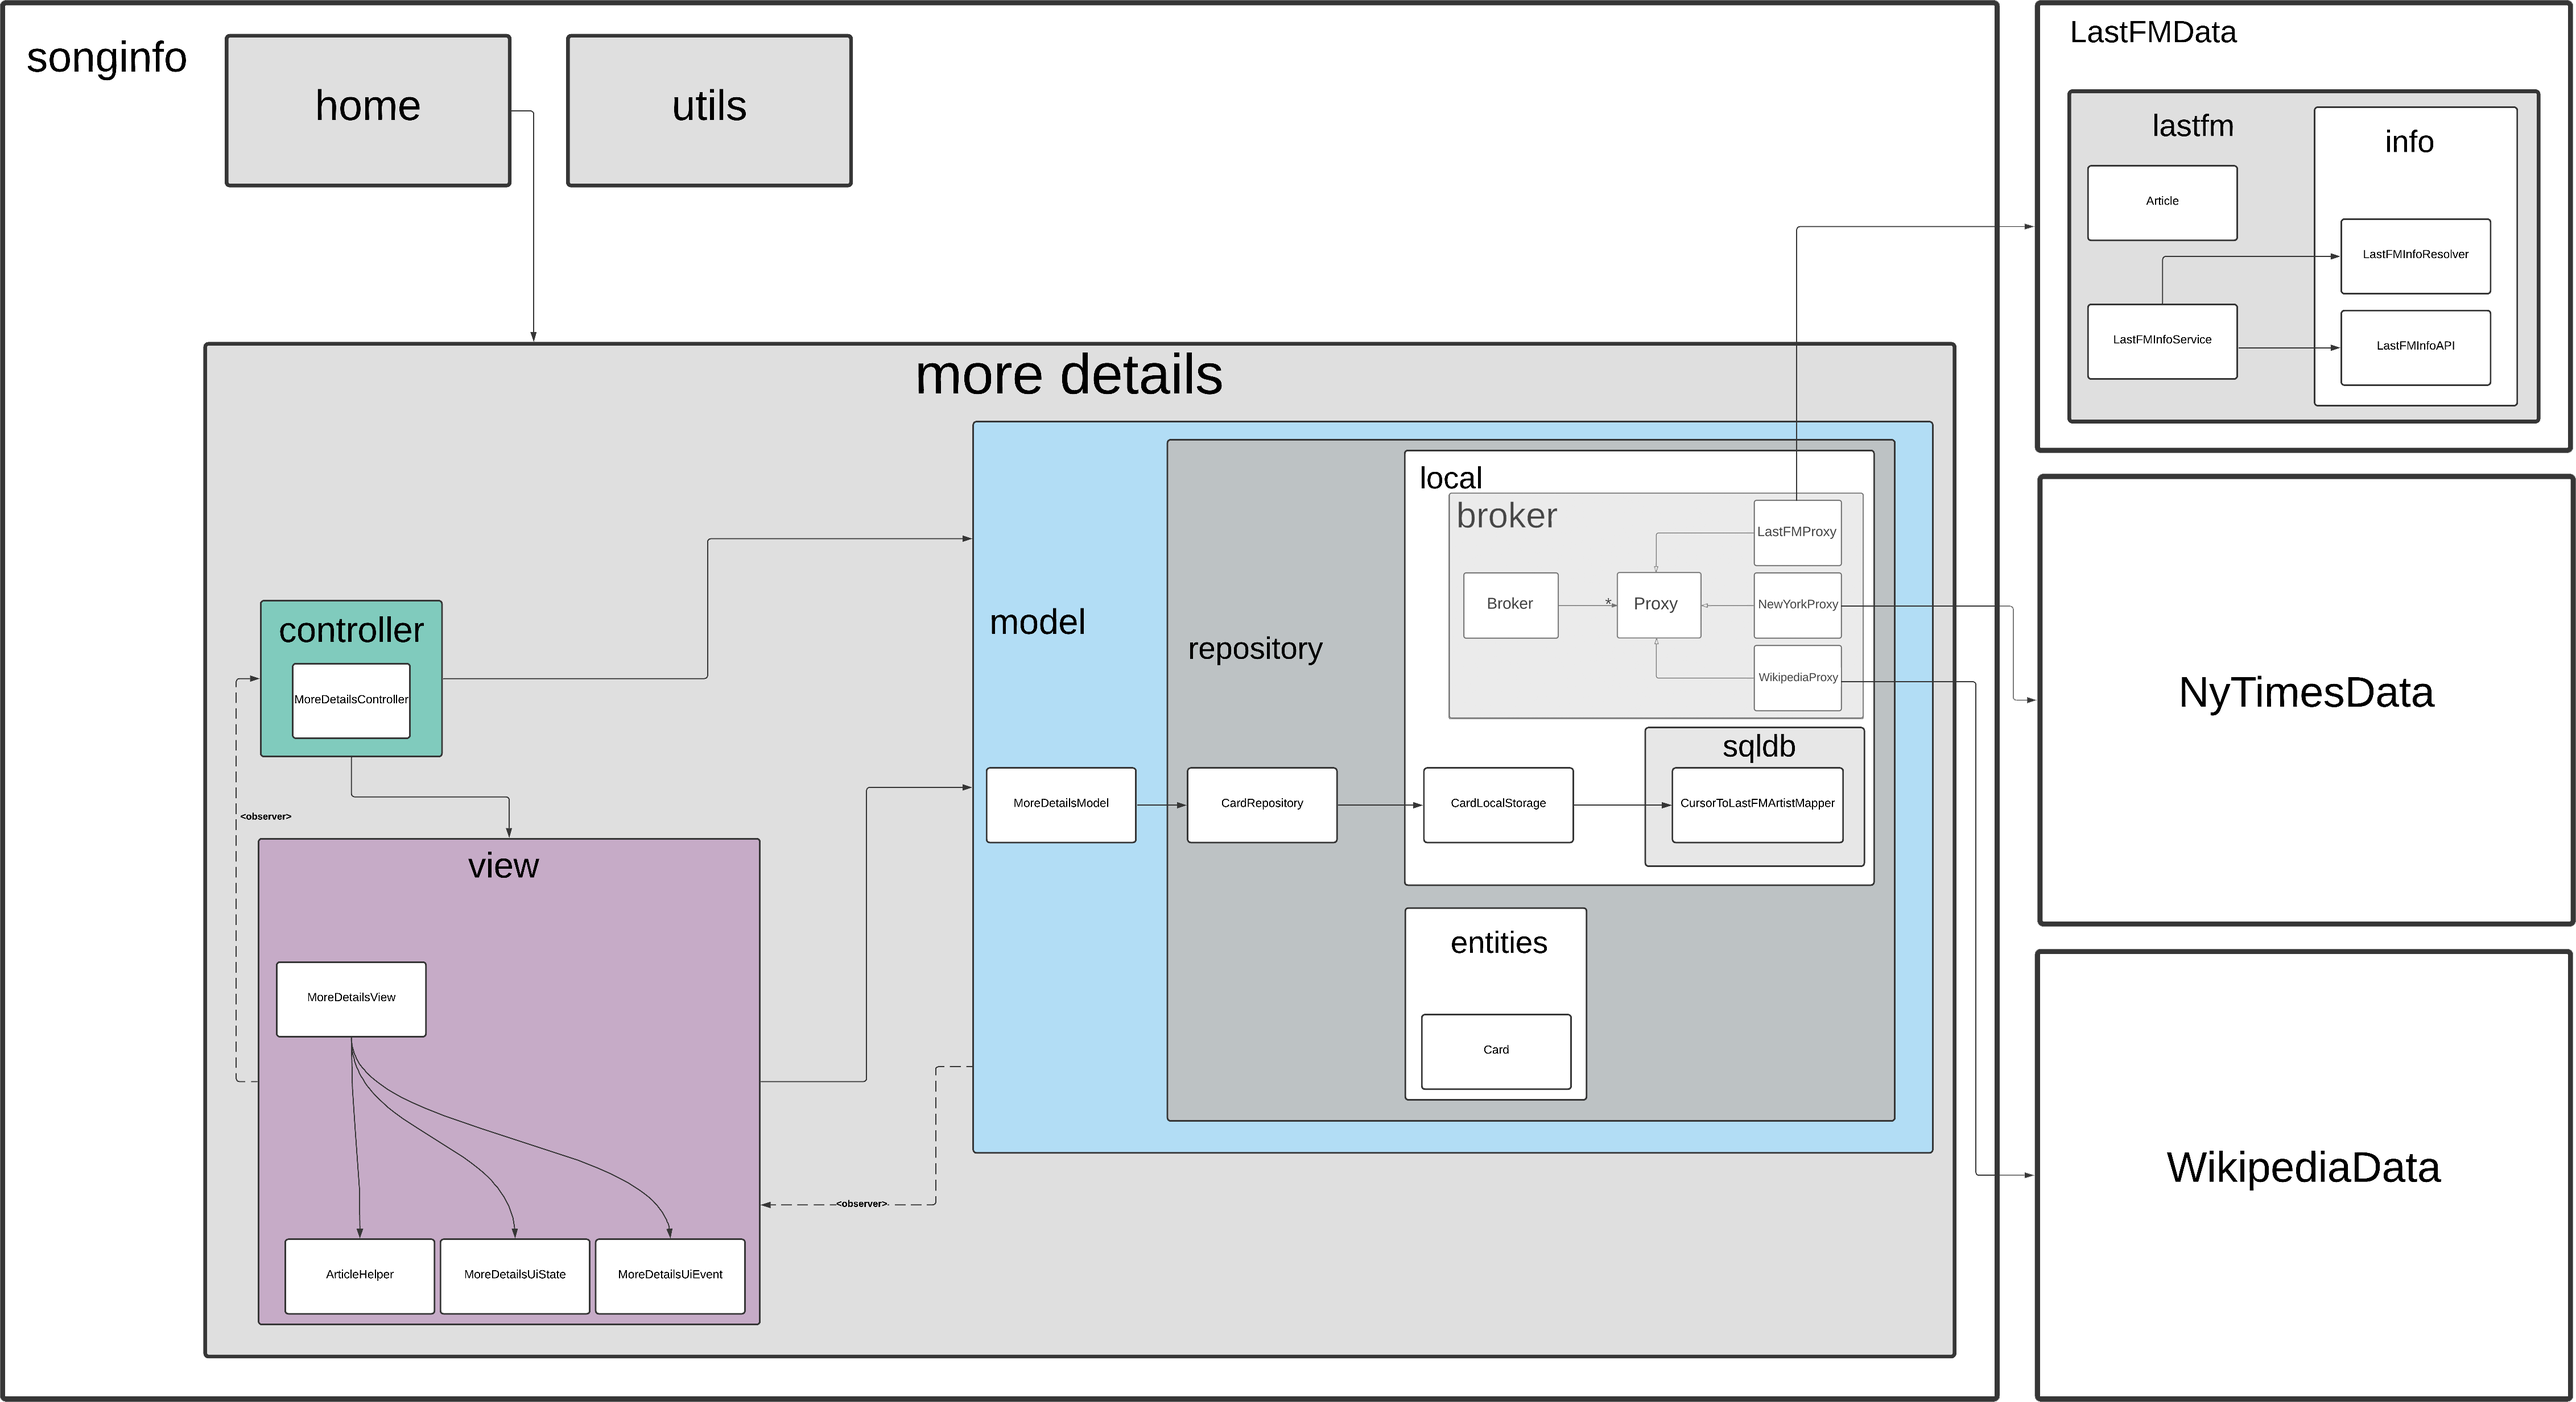
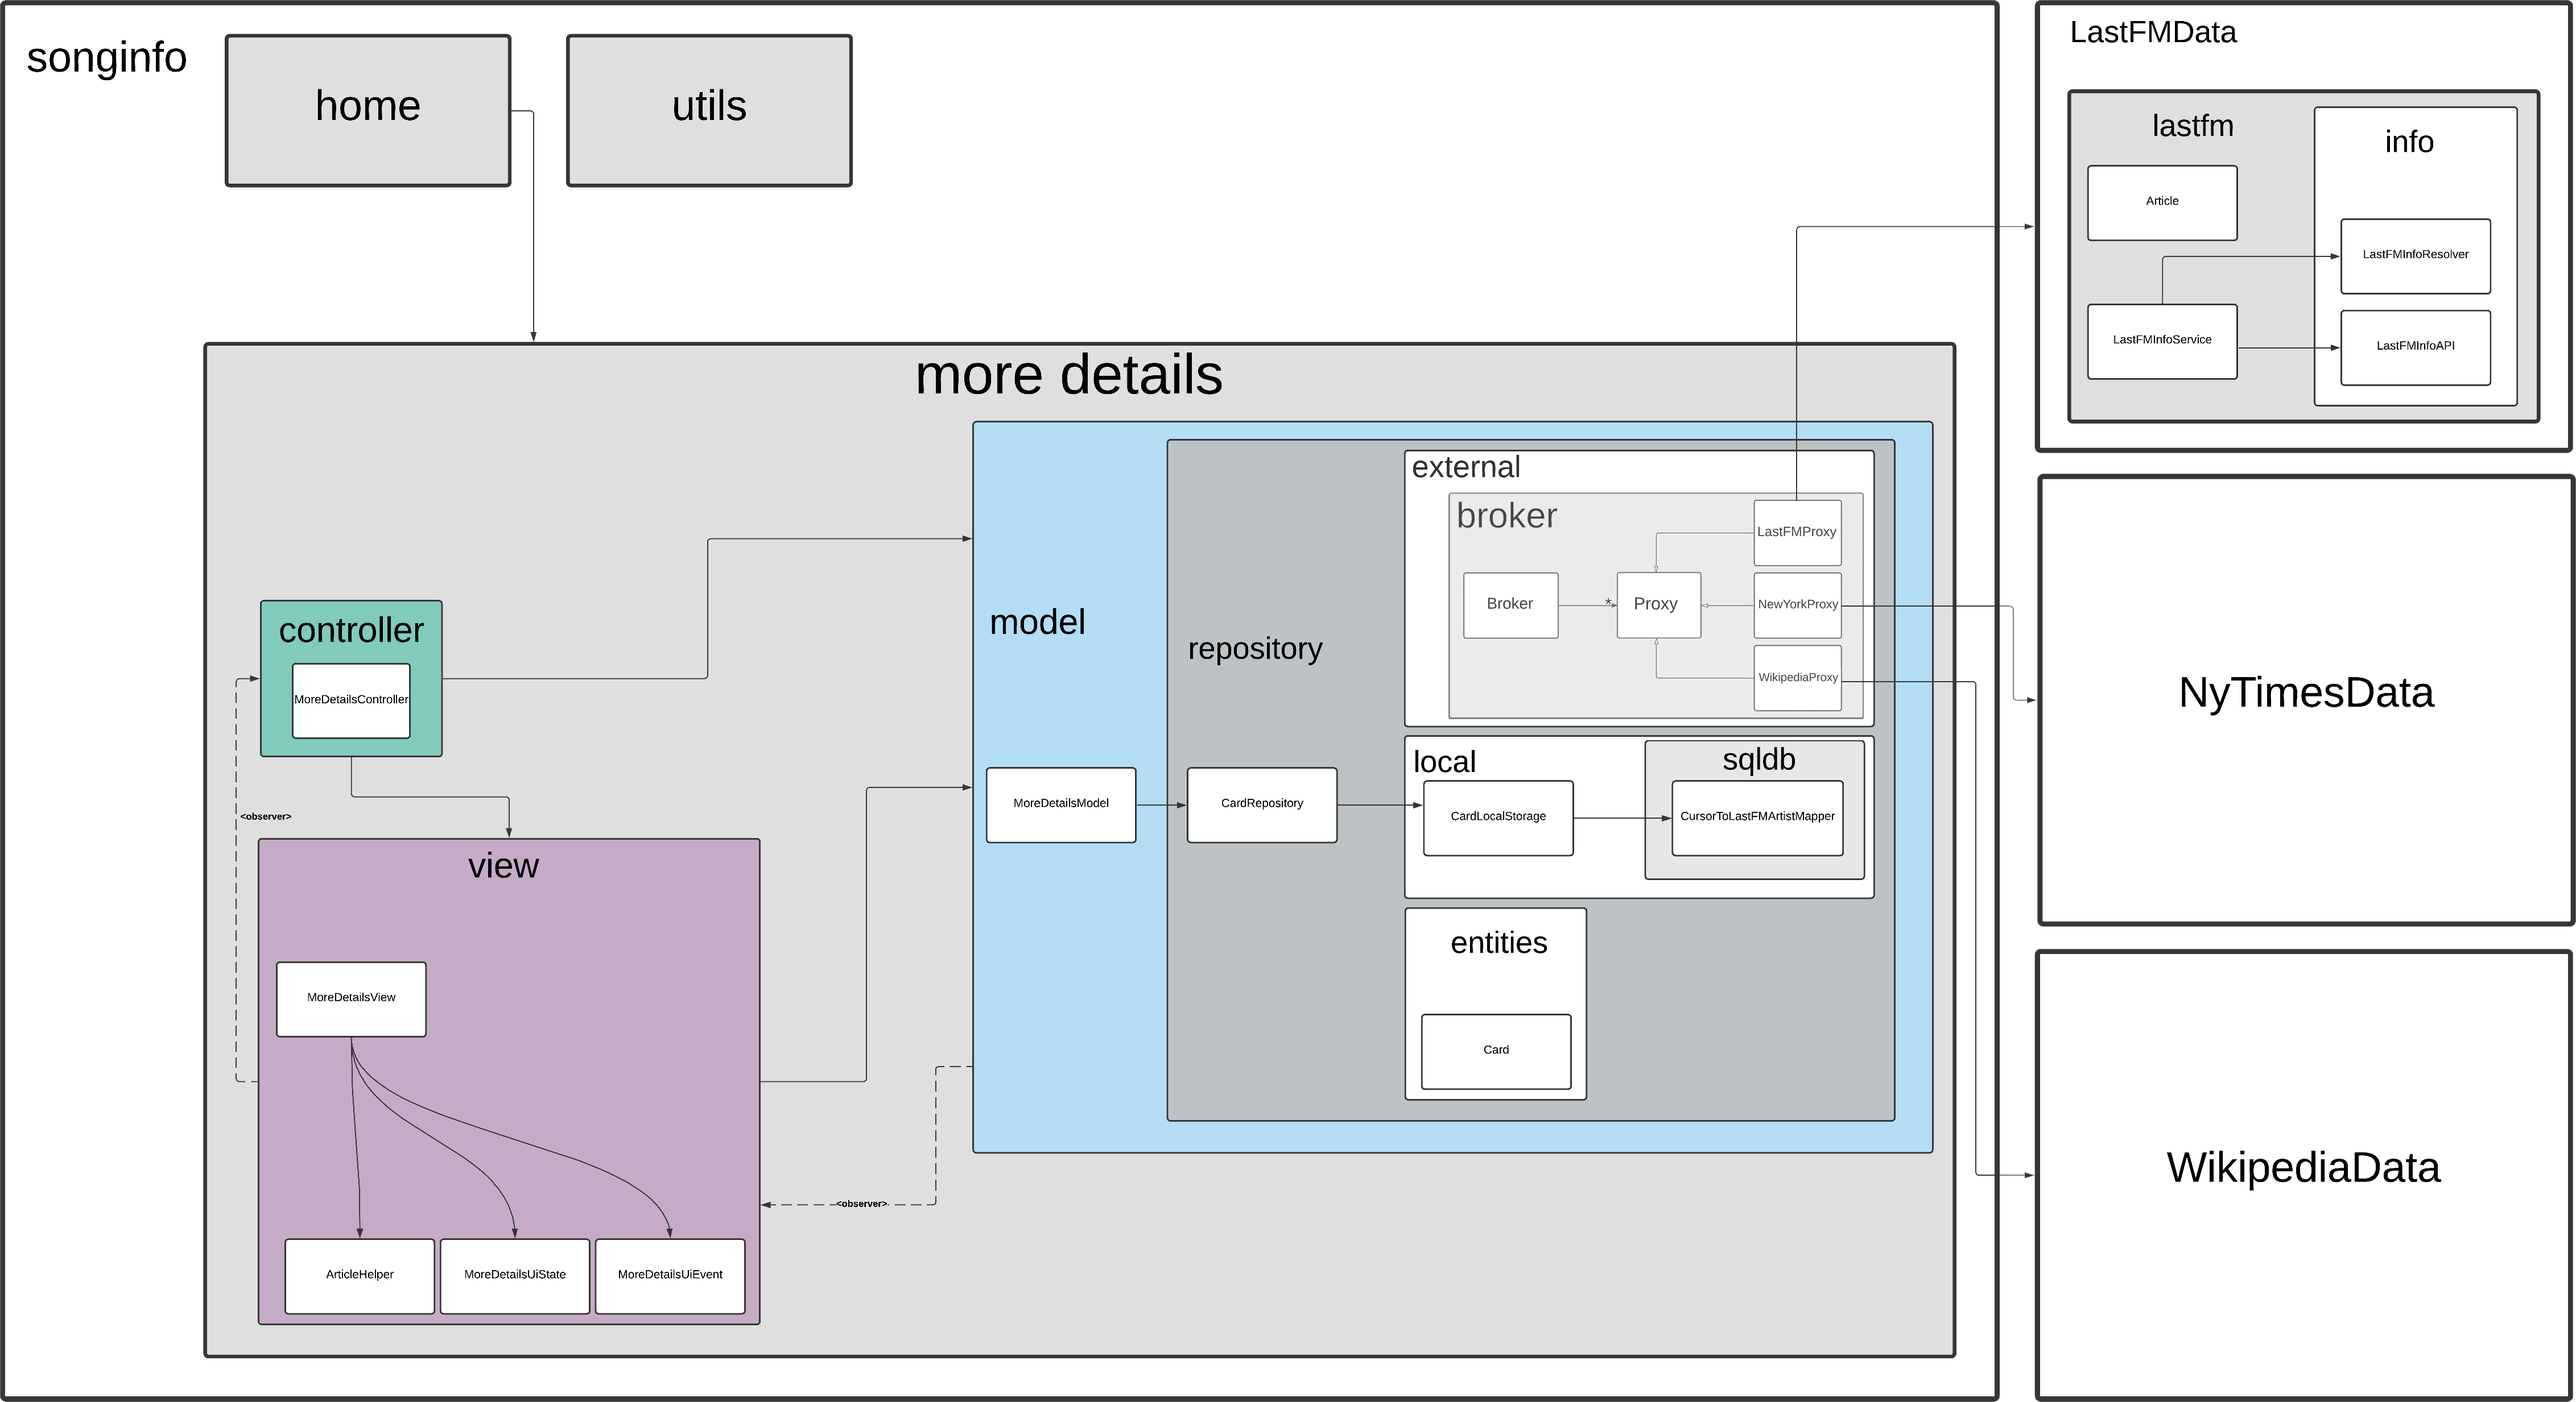
Fix ultimos cambios, broker dentro de external y actualizacion diagrama de clases

Changed region(s): [[0.5294, 0.4996, 0.7473, 0.6557], [0.5605, 0.3122, 0.5917, 0.3435]]

diff --git a/AK Apolo/app/src/main/java/ayds/apolo/songinfo/moredetails/model/MoreDetailsModelModule.kt b/AK Apolo/app/src/main/java/ayds/apolo/songinfo/moredetails/model/MoreDetailsModelModule.kt
@@ -4,10 +4,10 @@ import android.content.Context
 import ayds.apolo.songinfo.moredetails.model.repository.CardRepository
 import ayds.apolo.songinfo.moredetails.model.repository.CardRepositoryImpl
 import ayds.apolo.songinfo.moredetails.model.repository.local.CardLocalStorage
-import ayds.apolo.songinfo.moredetails.model.repository.local.broker.BrokerImpl
-import ayds.apolo.songinfo.moredetails.model.repository.local.broker.LastFMProxy
-import ayds.apolo.songinfo.moredetails.model.repository.local.broker.NewYorkProxy
-import ayds.apolo.songinfo.moredetails.model.repository.local.broker.WikipediaProxy
+import ayds.apolo.songinfo.moredetails.model.repository.external.broker.BrokerImpl
+import ayds.apolo.songinfo.moredetails.model.repository.external.broker.LastFMProxy
+import ayds.apolo.songinfo.moredetails.model.repository.external.broker.NewYorkProxy
+import ayds.apolo.songinfo.moredetails.model.repository.external.broker.WikipediaProxy
 import ayds.apolo.songinfo.moredetails.model.repository.local.sqldb.CardLocalStorageImpl
 import ayds.apolo.songinfo.moredetails.view.MoreDetailsView
 import ayds.apolo.songinfo.moredetails.model.repository.local.sqldb.CursorToLastFMSongMapperImpl

diff --git a/AK Apolo/app/src/main/java/ayds/apolo/songinfo/moredetails/model/repository/CardRepository.kt b/AK Apolo/app/src/main/java/ayds/apolo/songinfo/moredetails/model/repository/CardRepository.kt
@@ -2,7 +2,7 @@ package ayds.apolo.songinfo.moredetails.model.repository
 
 import ayds.apolo.songinfo.moredetails.model.entities.*
 import ayds.apolo.songinfo.moredetails.model.repository.local.CardLocalStorage
-import ayds.apolo.songinfo.moredetails.model.repository.local.broker.BrokerImpl
+import ayds.apolo.songinfo.moredetails.model.repository.external.broker.BrokerImpl
 
 interface CardRepository {
     fun getArticleByArtistName(artistName: String): List<Card>

diff --git a/AK Apolo/app/src/main/java/ayds/apolo/songinfo/moredetails/model/repository/external/broker/LastFMProxy.kt b/AK Apolo/app/src/main/java/ayds/apolo/songinfo/moredetails/model/repository/external/broker/LastFMProxy.kt
@@ -1,4 +1,4 @@
-package ayds.apolo.songinfo.moredetails.model.repository.local.broker
+package ayds.apolo.songinfo.moredetails.model.repository.external.broker
 
 import ayds.apolo.songinfo.moredetails.model.entities.Card
 import ayds.apolo.songinfo.moredetails.model.entities.EmptyCard

diff --git a/AK Apolo/app/src/main/java/ayds/apolo/songinfo/moredetails/model/repository/external/broker/NewYorkProxy.kt b/AK Apolo/app/src/main/java/ayds/apolo/songinfo/moredetails/model/repository/external/broker/NewYorkProxy.kt
@@ -1,4 +1,4 @@
-package ayds.apolo.songinfo.moredetails.model.repository.local.broker
+package ayds.apolo.songinfo.moredetails.model.repository.external.broker
 
 import ayds.apolo.songinfo.moredetails.model.entities.Card
 import ayds.apolo.songinfo.moredetails.model.entities.EmptyCard

diff --git a/AK Apolo/app/src/main/java/ayds/apolo/songinfo/moredetails/model/repository/external/broker/WikipediaProxy.kt b/AK Apolo/app/src/main/java/ayds/apolo/songinfo/moredetails/model/repository/external/broker/WikipediaProxy.kt
@@ -1,4 +1,4 @@
-package ayds.apolo.songinfo.moredetails.model.repository.local.broker
+package ayds.apolo.songinfo.moredetails.model.repository.external.broker
 
 import ayds.apolo.songinfo.moredetails.model.entities.Card
 import ayds.apolo.songinfo.moredetails.model.entities.EmptyCard

diff --git a/AK Apolo/app/src/main/java/ayds/apolo/songinfo/moredetails/model/repository/external/broker/BrokerImpl.kt b/AK Apolo/app/src/main/java/ayds/apolo/songinfo/moredetails/model/repository/external/broker/BrokerImpl.kt
@@ -1,4 +1,4 @@
-package ayds.apolo.songinfo.moredetails.model.repository.local.broker
+package ayds.apolo.songinfo.moredetails.model.repository.external.broker
 
 import ayds.apolo.songinfo.moredetails.model.entities.Card
 import ayds.apolo.songinfo.moredetails.model.entities.FullCard

diff --git a/AK Apolo/app/src/main/java/ayds/apolo/songinfo/moredetails/model/repository/external/broker/Proxy.kt b/AK Apolo/app/src/main/java/ayds/apolo/songinfo/moredetails/model/repository/external/broker/Proxy.kt
@@ -1,4 +1,4 @@
-package ayds.apolo.songinfo.moredetails.model.repository.local.broker
+package ayds.apolo.songinfo.moredetails.model.repository.external.broker
 
 import ayds.apolo.songinfo.moredetails.model.entities.Card
 
